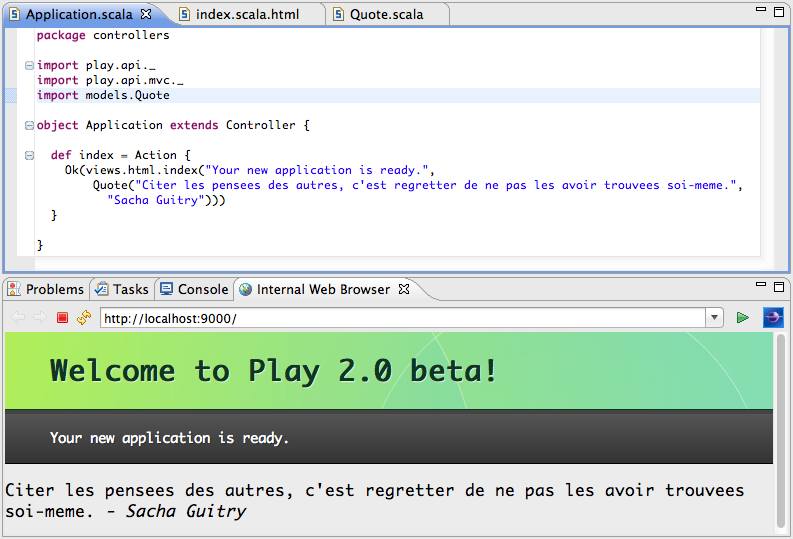
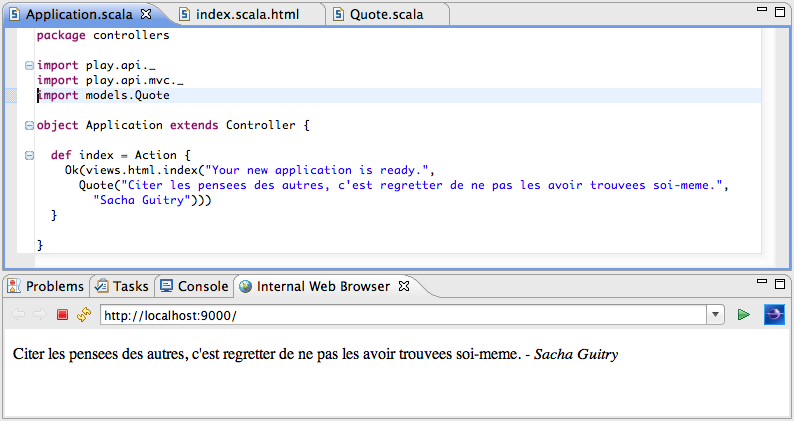
Updated Play 2.0 in Scala IDE guide for 2.0-RC1
New screenshot, tweak of text, in en and fr.

diff --git a/tutorials/play20scalaide20/index-fr.rst b/tutorials/play20scalaide20/index-fr.rst
@@ -10,7 +10,7 @@ Que contient ce guide?
 
 Ce guide vous montera comment configurer une application web Play pour pouvoir l'importer dans Scala IDE, comment configurer `Scala IDE`_ pour pouvoir utiliser correctement le Play framework et finalement comment développer un application web Play avec Scala IDE.
 
-*La version anglaise est la version de référence. J'essaierai de garder la version française à jour.*
+*La version anglaise est la version de référence. J'essaierai de garder à jour la version française.*
 
 Prérequis
 .........
@@ -30,7 +30,7 @@ Installer Play 2.0
 
 Pour pouvoir créer une web application Play, Play framework est nécessaire. Si vous ne l'avez pas encore installé, suivez ces quelques étapes, ou utilisez la `documentation de Play`__.
 
-*   Téléchargez Play framework 2.0-beta sur http://www.playframework.org/2.0.
+*   Téléchargez Play framework 2.0-RC1 sur http://www.playframework.org/2.0.
 
 *   Unzippez l'archive dans votre répertoire préféré. Nous utiliserons ``/path/to/play20`` dans ce document.
 
@@ -85,7 +85,9 @@ Configurer l'application web Play 2.0 pour Scala IDE
 
 Maintenant que l'application Play fonctionne, il faut la configurer pour pouvoir l'importer dans Scala IDE.
 
-Le support eclipsify n'est pas integrated dans Play 2.0 pour le moment. Donc nous utilisons `sbteclipse`_ pour faire de l'application web un projet Eclipse.
+`eclipsify`_ est intégré dans Play 2.0-RC1. Malheureusement, la configuration qu'il génère n'est pas entièrement supportée par Scala IDE 2.0 (voir `#1000907`_ pour plus de détails).
+
+Donc nous utilisons `sbteclipse`_ pour faire de l'application web un projet Eclipse.
 
 *   D'abord, sortez de Play, en utilisant ``ctrl-d``, puis ``exit``.
 
@@ -177,7 +179,9 @@ Tout est configuré, il est temps d'importer le projet dans Scala IDE.
 Faire un peu de développement
 -----------------------------
 
-Maintenant que tout est configuré, nous pouvons changer le contenu. Ajoutons le moyen d'avoir une citation sur la page principale.
+Maintenant que tout est configuré, le vrai développement peut commencer.
+
+Modifions la page principale pour afficher une citation à la place de la page de défaut.
 
 *   D'abord, créez la classe ``models.Quote`` en utilisant l'assistant nouvelle ``Scala Class``.
 
@@ -186,7 +190,7 @@ Maintenant que tout est configuré, nous pouvons changer le contenu. Ajoutons le
        :width: 100%
        :target: ../../_images/play20-scalaide20-19.png
 
-*   Ajoutez les variables à ``models.Quote``.
+*   Ajoutez les variables à ``models.Quote``, et faites en une case class.
 
     .. code-block:: scala
 
@@ -203,8 +207,6 @@ Maintenant que tout est configuré, nous pouvons changer le contenu. Ajoutons le
        @(message: String, quote: models.Quote)
        
        @main("Welcome to Play 2.0 beta") {
-       
-           @play20.welcome(message)
            
            <p>@quote.text<em> - @quote.author</em></p>
        
@@ -219,7 +221,7 @@ Maintenant que tout est configuré, nous pouvons changer le contenu. Ajoutons le
        :width: 100%
        :target: ../../_images/play20-scalaide20-17.png
 
-*   Corrigez le code de l'application, en utilisant une citation élégante.
+*   Corrigez le code de l'application, en utilisant une citation élégante. Et corrigez les imports au besoin.
 
     .. code-block:: scala
 
@@ -239,11 +241,11 @@ Maintenant que tout est configuré, nous pouvons changer le contenu. Ajoutons le
 Aller plus loin
 ----------------
 
-Vous avez maintenant tout ce dont vous besoin pour créer de belles applications web avec Play 2.0 et Scala.
+Vous avez maintenant tout ce dont vous besoin pour créer de grandes applications web avec Play 2.0 et Scala.
 
-Pour plus d'information sur Play 2.0, allez voir le `wiki Play 2.0`__.
+Pour plus d'information sur Play 2.0, utilisez la `documentation intégrée`__.
 
-__ `Play 2.0 wiki`_
+__ `embedded documentation`_
 
 Pour plus d'information sur Scala, allez sur le `site de documentation`__ ou récupérez le `eBook`_ téléchargeable.
 
@@ -260,12 +262,14 @@ __ `Scala IDE documentation project`__
 Luc Bourlier - `+Luc Bourlier`_ `@sky1uc`_
 
 
+.. _#1000907: http://www.assembla.com/spaces/scala-ide/tickets/1000907
 .. _Scala IDE: http://www.scala-ide.org
 .. _Scala IDE documentation project: https://github.com/scala-ide/docs
 .. _Eclipse: http://www.eclipse.org/
 .. _Play documentation: https://github.com/playframework/Play20/wiki/Installing
+.. _eclipsify: https://github.com/musk/SbtEclipsify
 .. _sbteclipse: https://github.com/typesafehub/sbteclipse
-.. _Play 2.0 wiki: https://github.com/playframework/play20/wiki
+.. _embedded documentation: http://localhost:9000/@documentation/Home
 .. _documentation website: http://docs.scala-lang.org/
 .. _eBook: http://typesafe.com/resources/scala-for-the-impatient
 .. _+Luc Bourlier: https://plus.google.com/106787944777810934000/posts

diff --git a/tutorials/play20scalaide20/index.rst b/tutorials/play20scalaide20/index.rst
@@ -28,7 +28,7 @@ Setting up Play 2.0
 
 To be able to create a Play web application, the Play framework need to be installed. If you have not installed it already, follow this few steps, or use the `Play documentation`_.
 
-*   Download Play framework 2.0-beta from http://www.playframework.org/2.0.
+*   Download Play framework 2.0-RC1 from http://www.playframework.org/2.0.
 
 *   Unzip it in your preferred location. Let's say ``/path/to/play20`` for the purpose of this document.
 
@@ -81,7 +81,9 @@ Configuring the Play 2.0 web application for Scala IDE
 
 Now that the Play application is running, it needs to be configured so it can be imported into Scala IDE.
 
-The eclipsify support is not yet integrated it Play 2.0, so we are using `sbteclipse`_ to make it an Eclipse project.
+Play 2.0-RC1 integrates `eclipsify`_, unfortunally Scala IDE 2.0 doesn't fully support the configuration it generates (see `#1000907`_ for more details).
+
+In consequence, we are using `sbteclipse`_ to make an Eclipse project of the sbt project.
 
 *   First, exit Play using ``ctrl-d``, and then ``exit``.
 
@@ -173,7 +175,9 @@ Everything is setup, it is time to import the project in the IDE.
 Doing some development
 ----------------------
 
-Now that everything is setup, we can change the content. Let's add a way to have a quote on the main page.
+Now that everything is setup, we can start to do some real work.
+
+Let's change the main page to display a quote instead of the default page.
 
 *   First, create the ``models.Quote`` class using the new ``Scala Class`` wizard.
 
@@ -182,7 +186,7 @@ Now that everything is setup, we can change the content. Let's add a way to have
        :width: 100%
        :target: ../../_images/play20-scalaide20-19.png
 
-*   Add variables to ``models.Quote``.
+*   Add variables to ``models.Quote``, and make it a case class.
 
     .. code-block:: scala
 
@@ -200,8 +204,6 @@ Now that everything is setup, we can change the content. Let's add a way to have
        
        @main("Welcome to Play 2.0 beta") {
        
-           @play20.welcome(message)
-           
            <p>@quote.text<em> - @quote.author</em></p>
        
        }
@@ -215,7 +217,7 @@ Now that everything is setup, we can change the content. Let's add a way to have
        :width: 100%
        :target: ../../_images/play20-scalaide20-17.png
 
-*   Fix the application code, using a smart quote.
+*   Fix the application code, using a smart quote. And fix the imports as needed.
 
     .. code-block:: scala
 
@@ -237,7 +239,7 @@ Going further
 
 You now have all you need to create great web applications with Play 2.0 and Scala.
 
-For more information about Play 2.0, check out the `Play 2.0 wiki`_.
+For more information about Play 2.0, check out the `embedded documentation`_.
 
 For more information about Scala, go to the `documentation website`_ or get the downloadable `eBook`_.
 
@@ -245,17 +247,24 @@ Feedback
 --------
 
 This guide is managed through in the `Scala IDE documentation project`_ on github.
-Please use github ticket and pull request system for feedback.
+Please use github tickets and pull requests system for feedback.
 
 Luc Bourlier - `+Luc Bourlier`_ `@sky1uc`_
 
 
+.. toctree::
+   :hidden:
+
+   index-fr.rst
+
+.. _#1000907: http://www.assembla.com/spaces/scala-ide/tickets/1000907
 .. _Scala IDE: http://www.scala-ide.org
 .. _Scala IDE documentation project: https://github.com/scala-ide/docs
 .. _Eclipse: http://www.eclipse.org/
 .. _Play documentation: https://github.com/playframework/Play20/wiki/Installing
+.. _eclipsify: https://github.com/musk/SbtEclipsify
 .. _sbteclipse: https://github.com/typesafehub/sbteclipse
-.. _Play 2.0 wiki: https://github.com/playframework/play20/wiki
+.. _embedded documentation: http://localhost:9000/@documentation/Home
 .. _documentation website: http://docs.scala-lang.org/
 .. _eBook: http://typesafe.com/resources/scala-for-the-impatient
 .. _+Luc Bourlier: https://plus.google.com/106787944777810934000/posts
